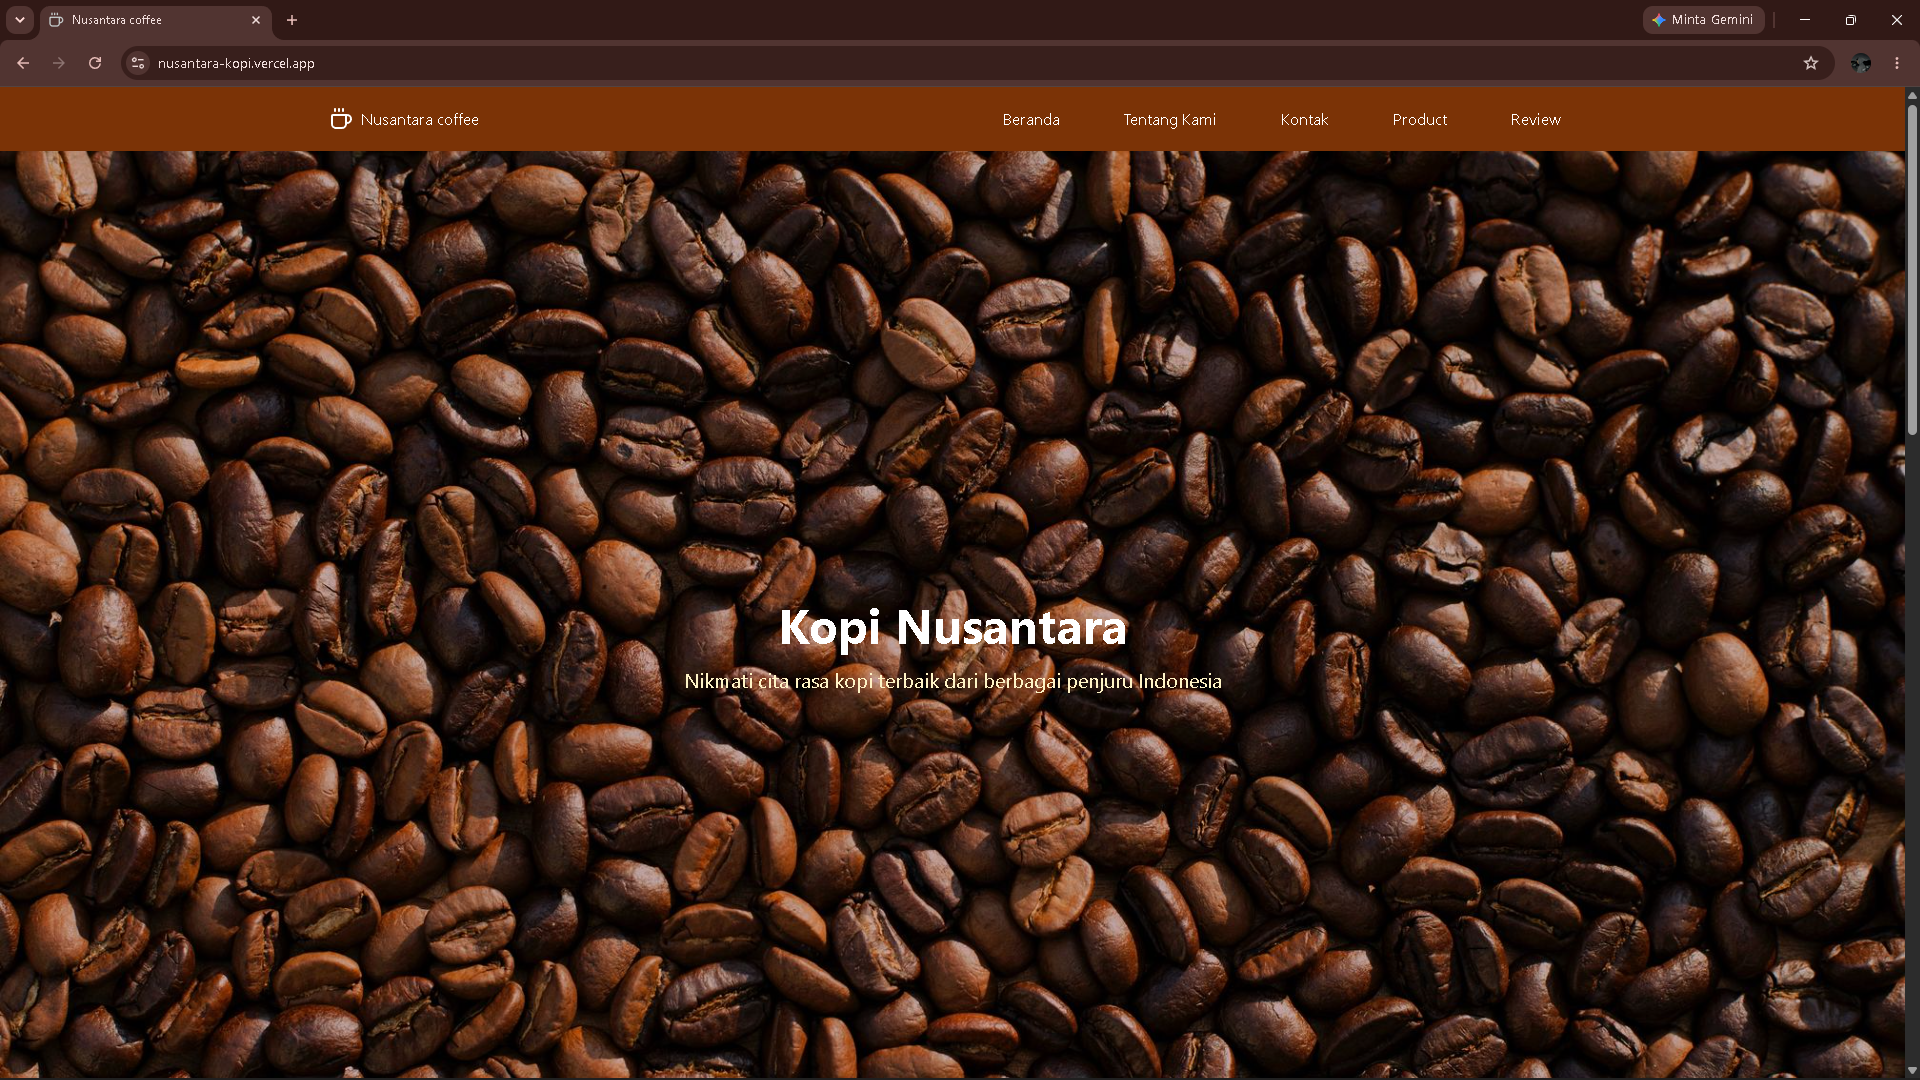
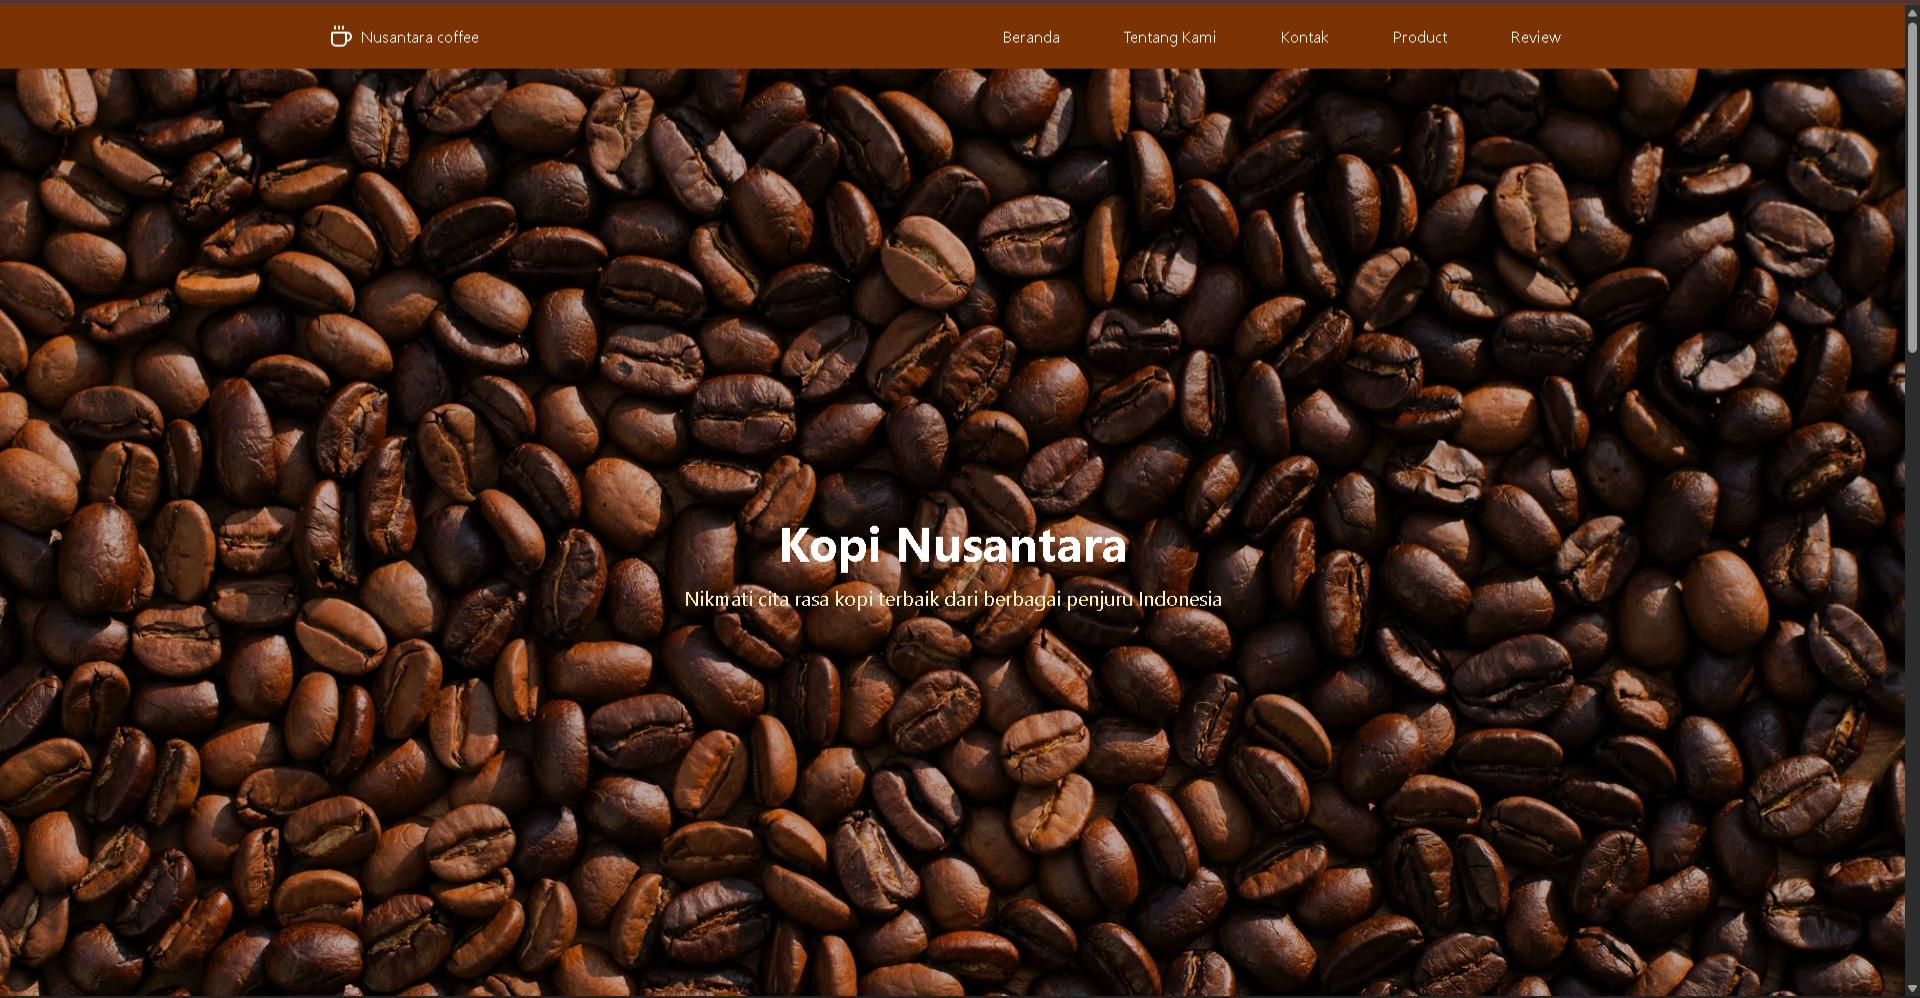
Tambah screenshot proyek

diff --git a/lib/projects.ts b/lib/projects.ts
@@ -25,7 +25,7 @@ export const projects: Project[] = [
       "Menyelesaikan seluruh tahap pengembangan secara mandiri, mulai dari desain antarmuka hingga implementasi backend.",
     ],
     stack: ["HTML", "CSS", "PHP Native", "MySQL"],
-    // image: "/projects/polsri.jpg", // aktifkan setelah screenshot ada
+    image: "/projects/polsri.jpg",
     github: "https://github.com/sutannn7/web-informatika-mi-polsri",
   },
   {
